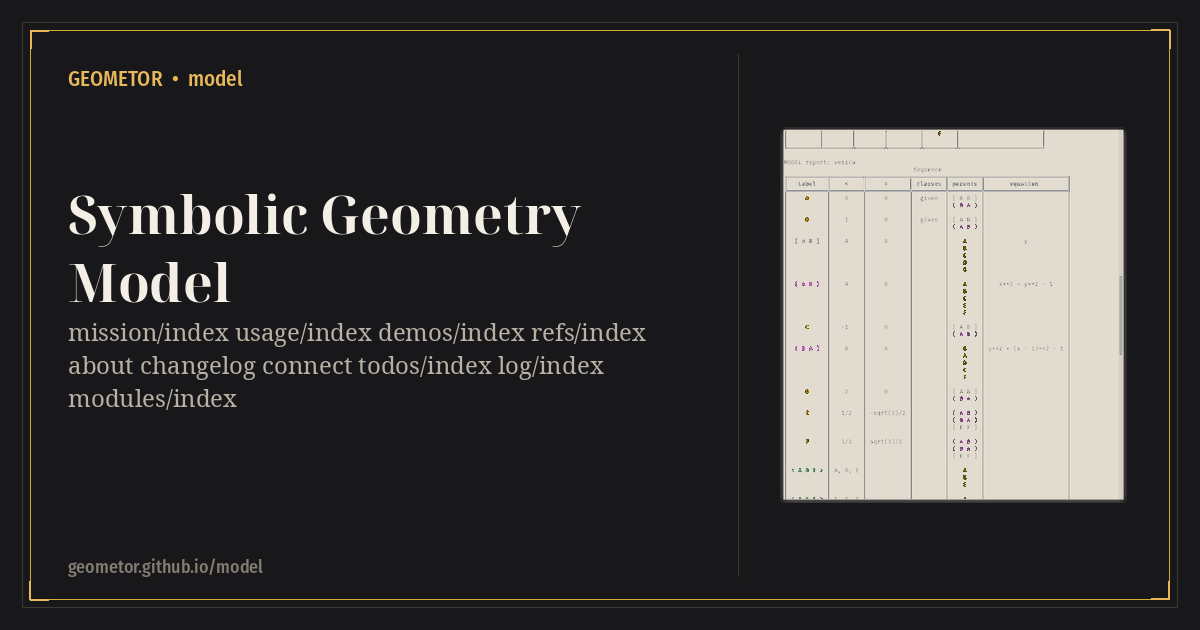
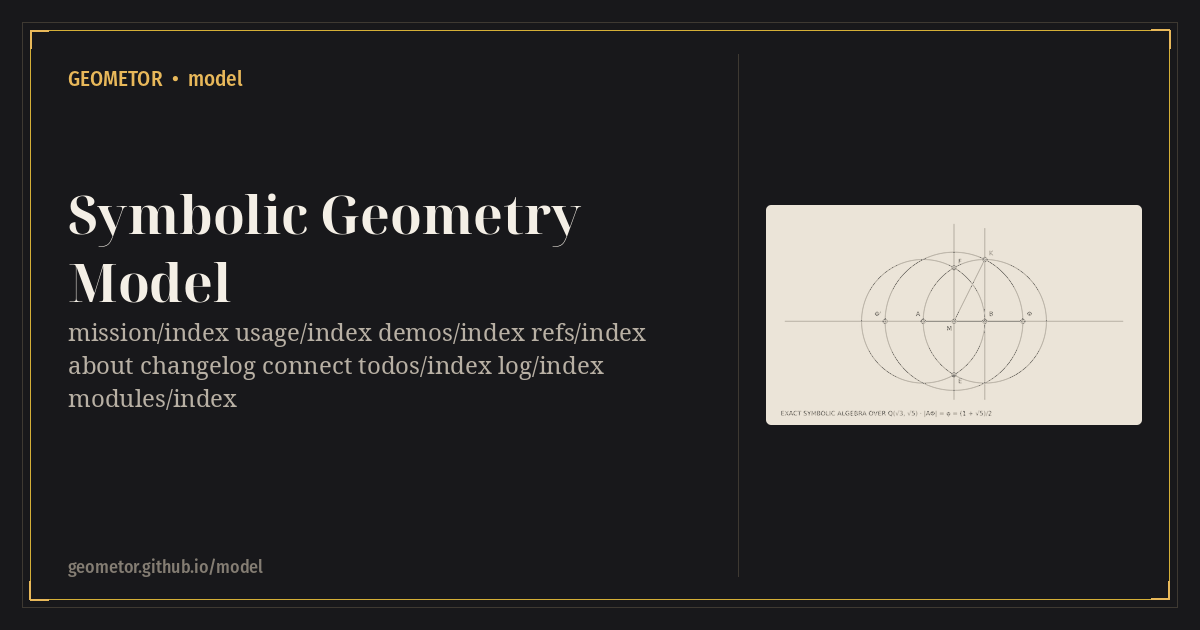
docs: add construction hero images, elevate English titles with native title tracks, and standardize track menus

Changed region(s): [[0.6167, 0.181, 0.9558, 0.8143], [0.8633, 0.5429, 0.8942, 0.573]]

diff --git a/README.rst b/README.rst
@@ -3,6 +3,11 @@ GEOMETOR • model
 
 **Visit the Online Archive:** https://geometor.github.io/model/
 
+.. image:: docsrc/_static/hero.svg
+   :alt: GEOMETOR • model featured geometric construction
+   :target: https://geometor.github.io/model/
+   :align: center
+
 **Symbolic Geometry Model • Exact SymPy compass-and-straightedge construction engine**
 
 Mission
